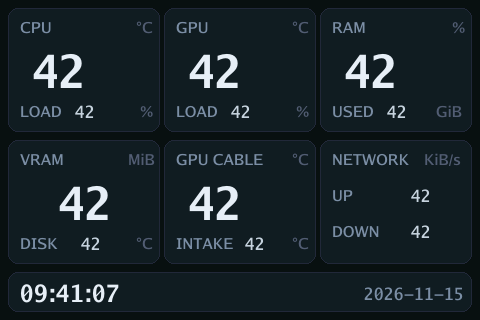
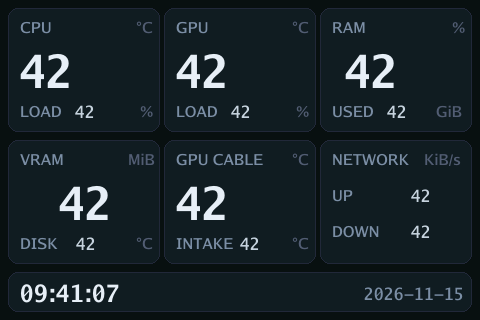
task-0030 Give the temperatures of minimal-dark-probes an alarm colour

diff --git a/internal/builtinthemes/builtinthemes_test.go b/internal/builtinthemes/builtinthemes_test.go
@@ -91,13 +91,13 @@ fonts:
 widgets:
   - {type: text, font: label, text: CPU, x: 20, y: 18}
   - {type: text, font: unit, text: "°C", x: 136, y: 18}
-  - {type: number, font: big, metric: cpu.temp, x: 20, y: 44}
+  - {type: number, font: big, metric: cpu.temp, x: 20, y: 44, alarm: {above: 90, color: "#ff3030"}}
   - {type: text, font: label, text: LOAD, x: 20, y: 102}
   - {type: number, font: small, metric: cpu.util, x: 70, y: 101}
   - {type: text, font: unit, text: "%", x: 140, y: 102}
   - {type: text, font: label, text: GPU, x: 176, y: 18}
   - {type: text, font: unit, text: "°C", x: 292, y: 18}
-  - {type: number, font: big, metric: gpu.temp, x: 176, y: 44}
+  - {type: number, font: big, metric: gpu.temp, x: 176, y: 44, alarm: {above: 85, color: "#ff3030"}}
   - {type: text, font: label, text: LOAD, x: 176, y: 102}
   - {type: number, font: small, metric: gpu.util, x: 226, y: 101}
   - {type: text, font: unit, text: "%", x: 296, y: 102}
@@ -111,13 +111,13 @@ widgets:
   - {type: text, font: unit, text: MiB, x: 128, y: 150}
   - {type: number, font: big, metric: gpu.mem.used, digits: 5, x: 20, y: 176}
   - {type: text, font: label, text: DISK, x: 20, y: 234}
-  - {type: number, font: small, metric: nvme.2.temp, x: 76, y: 233}
+  - {type: number, font: small, metric: nvme.2.temp, x: 76, y: 233, alarm: {above: 70, color: "#ff3030"}}
   - {type: text, font: unit, text: "°C", x: 136, y: 234}
   - {type: text, font: label, text: GPU CABLE, x: 176, y: 150}
   - {type: text, font: unit, text: "°C", x: 292, y: 150}
-  - {type: number, font: big, metric: commander.1.temp, x: 176, y: 176}
+  - {type: number, font: big, metric: commander.1.temp, x: 176, y: 176, alarm: {above: 60, color: "#ff3030"}}
   - {type: text, font: label, text: INTAKE, x: 176, y: 234}
-  - {type: number, font: small, metric: commander.2.temp, x: 240, y: 233}
+  - {type: number, font: small, metric: commander.2.temp, x: 240, y: 233, alarm: {above: 35, color: "#ff3030"}}
   - {type: text, font: unit, text: "°C", x: 292, y: 234}
   - {type: text, font: label, text: NETWORK, x: 332, y: 150}
   - {type: text, font: unit, text: KiB/s, x: 424, y: 150}
@@ -131,39 +131,54 @@ widgets:
 
 const minimalDarkProbesTags = `# Paste this block into the config file of sensordeck run.
 tags:
-  commander.1.temp: 1
-  commander.2.temp: 2
-  cpu.temp: 3
-  cpu.util: 4
-  gpu.mem.used: 5
-  gpu.temp: 6
-  gpu.util: 7
-  net.down: 8
-  net.up: 9
-  nvme.2.temp: 10
-  ram.used: 11
-  ram.util: 12
+  commander.1.temp: {alarms: [{above: 60, normal: 1, alarm: 2}]}
+  commander.2.temp: {alarms: [{above: 35, normal: 3, alarm: 4}]}
+  cpu.temp: {alarms: [{above: 90, normal: 5, alarm: 6}]}
+  cpu.util: 7
+  gpu.mem.used: 8
+  gpu.temp: {alarms: [{above: 85, normal: 9, alarm: 10}]}
+  gpu.util: 11
+  net.down: 12
+  net.up: 13
+  nvme.2.temp: {alarms: [{above: 70, normal: 14, alarm: 15}]}
+  ram.used: 16
+  ram.util: 17
 `
 
 // builtInThemes is the table of the built-in themes, in the order of their names. A new built-in theme is a row.
 var builtInThemes = []struct {
-	name        string
-	themeYAML   string
-	metricNames []string
-	tagsFile    string
+	name      string
+	themeYAML string
+	tags      []config.Mapping
+	alarms    []config.AlarmPair
+	tagsFile  string
 }{
 	{
 		name:      "minimal-dark",
 		themeYAML: minimalDarkYAML,
-		metricNames: []string{"cpu.temp", "cpu.util", "gpu.mem.total", "gpu.mem.used", "gpu.temp", "gpu.util", "net.down",
-			"net.up", "nvme.1.temp", "ram.used", "ram.util"},
+		tags: []config.Mapping{
+			{Name: "cpu.temp", Tag: 1}, {Name: "cpu.util", Tag: 2}, {Name: "gpu.mem.total", Tag: 3},
+			{Name: "gpu.mem.used", Tag: 4}, {Name: "gpu.temp", Tag: 5}, {Name: "gpu.util", Tag: 6},
+			{Name: "net.down", Tag: 7}, {Name: "net.up", Tag: 8}, {Name: "nvme.1.temp", Tag: 9},
+			{Name: "ram.used", Tag: 10}, {Name: "ram.util", Tag: 11},
+		},
 		tagsFile: minimalDarkTags,
 	},
 	{
 		name:      "minimal-dark-probes",
 		themeYAML: minimalDarkProbesYAML,
-		metricNames: []string{"commander.1.temp", "commander.2.temp", "cpu.temp", "cpu.util", "gpu.mem.used", "gpu.temp",
-			"gpu.util", "net.down", "net.up", "nvme.2.temp", "ram.used", "ram.util"},
+		tags: []config.Mapping{
+			{Name: "cpu.util", Tag: 7}, {Name: "gpu.mem.used", Tag: 8}, {Name: "gpu.util", Tag: 11},
+			{Name: "net.down", Tag: 12}, {Name: "net.up", Tag: 13}, {Name: "ram.used", Tag: 16},
+			{Name: "ram.util", Tag: 17},
+		},
+		alarms: []config.AlarmPair{
+			{Name: "commander.1.temp", Threshold: config.Threshold{Above: 60, HasAbove: true}, Normal: 1, Alarm: 2},
+			{Name: "commander.2.temp", Threshold: config.Threshold{Above: 35, HasAbove: true}, Normal: 3, Alarm: 4},
+			{Name: "cpu.temp", Threshold: config.Threshold{Above: 90, HasAbove: true}, Normal: 5, Alarm: 6},
+			{Name: "gpu.temp", Threshold: config.Threshold{Above: 85, HasAbove: true}, Normal: 9, Alarm: 10},
+			{Name: "nvme.2.temp", Threshold: config.Threshold{Above: 70, HasAbove: true}, Normal: 14, Alarm: 15},
+		},
 		tagsFile: minimalDarkProbesTags,
 	},
 }
@@ -269,12 +284,11 @@ func TestEachThemeCompilesWithItsTags(test *testing.T) {
 			if err != nil || len(warnings) != 0 {
 				test.Fatalf("read back: %v, warnings %q", err, warnings)
 			}
-			var want []config.Mapping
-			for index, name := range theme.metricNames {
-				want = append(want, config.Mapping{Name: name, Tag: uint8(index + 1)})
+			if !reflect.DeepEqual(result.Tags, theme.tags) {
+				test.Fatalf("tags %v, want %v", result.Tags, theme.tags)
 			}
-			if !reflect.DeepEqual(result.Tags, want) {
-				test.Fatalf("tags %v", result.Tags)
+			if !reflect.DeepEqual(result.Alarms, theme.alarms) {
+				test.Fatalf("alarms %v, want %v", result.Alarms, theme.alarms)
 			}
 			if got := string(themecompile.TagsFile(result.Tags, result.Alarms)); got != theme.tagsFile {
 				test.Fatalf("tags file %q", got)

diff --git a/e2e/builtin_theme_test.go b/e2e/builtin_theme_test.go
@@ -10,7 +10,10 @@ import (
 	"path/filepath"
 	"testing"
 
+	"github.com/norareit/sensordeck/internal/builtinthemes"
+	"github.com/norareit/sensordeck/internal/config"
 	"github.com/norareit/sensordeck/internal/fakescreen"
+	"github.com/norareit/sensordeck/internal/themecompile"
 	"github.com/norareit/sensordeck/internal/themefile"
 	"github.com/norareit/sensordeck/internal/themeimage"
 )
@@ -32,18 +35,18 @@ tags:
 
 const minimalDarkProbesTagsFile = `# Paste this block into the config file of sensordeck run.
 tags:
-  commander.1.temp: 1
-  commander.2.temp: 2
-  cpu.temp: 3
-  cpu.util: 4
-  gpu.mem.used: 5
-  gpu.temp: 6
-  gpu.util: 7
-  net.down: 8
-  net.up: 9
-  nvme.2.temp: 10
-  ram.used: 11
-  ram.util: 12
+  commander.1.temp: {alarms: [{above: 60, normal: 1, alarm: 2}]}
+  commander.2.temp: {alarms: [{above: 35, normal: 3, alarm: 4}]}
+  cpu.temp: {alarms: [{above: 90, normal: 5, alarm: 6}]}
+  cpu.util: 7
+  gpu.mem.used: 8
+  gpu.temp: {alarms: [{above: 85, normal: 9, alarm: 10}]}
+  gpu.util: 11
+  net.down: 12
+  net.up: 13
+  nvme.2.temp: {alarms: [{above: 70, normal: 14, alarm: 15}]}
+  ram.used: 16
+  ram.util: 17
 `
 
 // configHome gives a temporary config directory, the variable that makes it the one of the executable, and the themes
@@ -129,8 +132,21 @@ func compileAndPreviewByName(test *testing.T, name, wantTagsFile string) {
 	if got.status != 0 || got.stdout != "wrote "+preview+"\n" || got.stderr != "" {
 		test.Fatalf("preview: status %d, stdout %q, stderr %q", got.status, got.stdout, got.stderr)
 	}
+	// The preview draws the normal state, so the widget of the alarm state of each alarm number is hidden.
+	folder, found := builtinthemes.Folder(name)
+	if !found {
+		test.Fatalf("%s is not a built-in theme", name)
+	}
+	compiled, err := themecompile.Compile(folder)
+	if err != nil {
+		test.Fatal(err)
+	}
+	hidden := make(map[int]int16, len(compiled.AlarmSlots))
+	for _, slot := range compiled.AlarmSlots {
+		hidden[slot] = config.HidingValue
+	}
 	var want bytes.Buffer
-	if err := png.Encode(&want, themeimage.Preview(theme)); err != nil {
+	if err := png.Encode(&want, themeimage.PreviewWithValues(theme, hidden)); err != nil {
 		test.Fatal(err)
 	}
 	if written, err := os.ReadFile(preview); err != nil || !bytes.Equal(written, want.Bytes()) {

diff --git a/docs_test.go b/docs_test.go
@@ -9,6 +9,7 @@ import (
 	"testing"
 
 	"github.com/norareit/sensordeck/internal/builtinthemes"
+	"github.com/norareit/sensordeck/internal/config"
 	"github.com/norareit/sensordeck/internal/themecompile"
 	"github.com/norareit/sensordeck/internal/themefile"
 	"github.com/norareit/sensordeck/internal/themeimage"
@@ -40,7 +41,12 @@ func TestThePreviewImagesAreWhatTheCodeDrawsNow(test *testing.T) {
 			if err != nil {
 				test.Fatal(err)
 			}
-			want := themeimage.Preview(theme)
+			// The preview draws the normal state, so the widget of the alarm state of each alarm number is hidden.
+			hidden := make(map[int]int16, len(compiled.AlarmSlots))
+			for _, slot := range compiled.AlarmSlots {
+				hidden[slot] = config.HidingValue
+			}
+			want := themeimage.PreviewWithValues(theme, hidden)
 
 			if mismatch := compareWithImage(preview.path, want); mismatch != "" {
 				test.Errorf("%s %s: write the image again with %q", preview.path, mismatch,

diff --git a/README.md b/README.md
@@ -137,7 +137,9 @@ the device.
   first NVMe drive, the network and the clock, each with the number 42 as a sample value](docs/minimal-dark.png)
 
 * `minimal-dark-probes` is `minimal-dark` with the VRAM total replaced by the temperature of the second NVMe drive, and
-  the disk tile replaced by the two probes of a Corsair iCUE Commander Core XT.
+  the disk tile replaced by the two probes of a Corsair iCUE Commander Core XT. It shows its five
+  temperatures in red past their thresholds, in °C: CPU above 90, GPU above 85, DISK above 70, GPU CABLE above 60 and
+  INTAKE above 35, as [Writing a theme](#writing-a-theme) describes for the key `alarm`.
 
   ![The preview of the built-in theme minimal-dark-probes: tiles for the CPU, the GPU, the memory, the VRAM with the
   temperature of the second NVMe drive under it, the two probes GPU CABLE and INTAKE, the network and the clock, each with
@@ -154,7 +156,8 @@ metric the host cannot read behaves as the [quick start](#quick-start) says.
 
 `minimal-dark-probes` is an example to copy and adapt: copy its folder,
 `internal/builtinthemes/themes/minimal-dark-probes` of the repository, into the themes directory under a name of your
-own, and change the labels and the metrics to those of your own hardware.
+own, and change the labels and the metrics to those of your own hardware, and the thresholds in the key `alarm` of its
+`theme.yaml`.
 
 ## Commands
 
